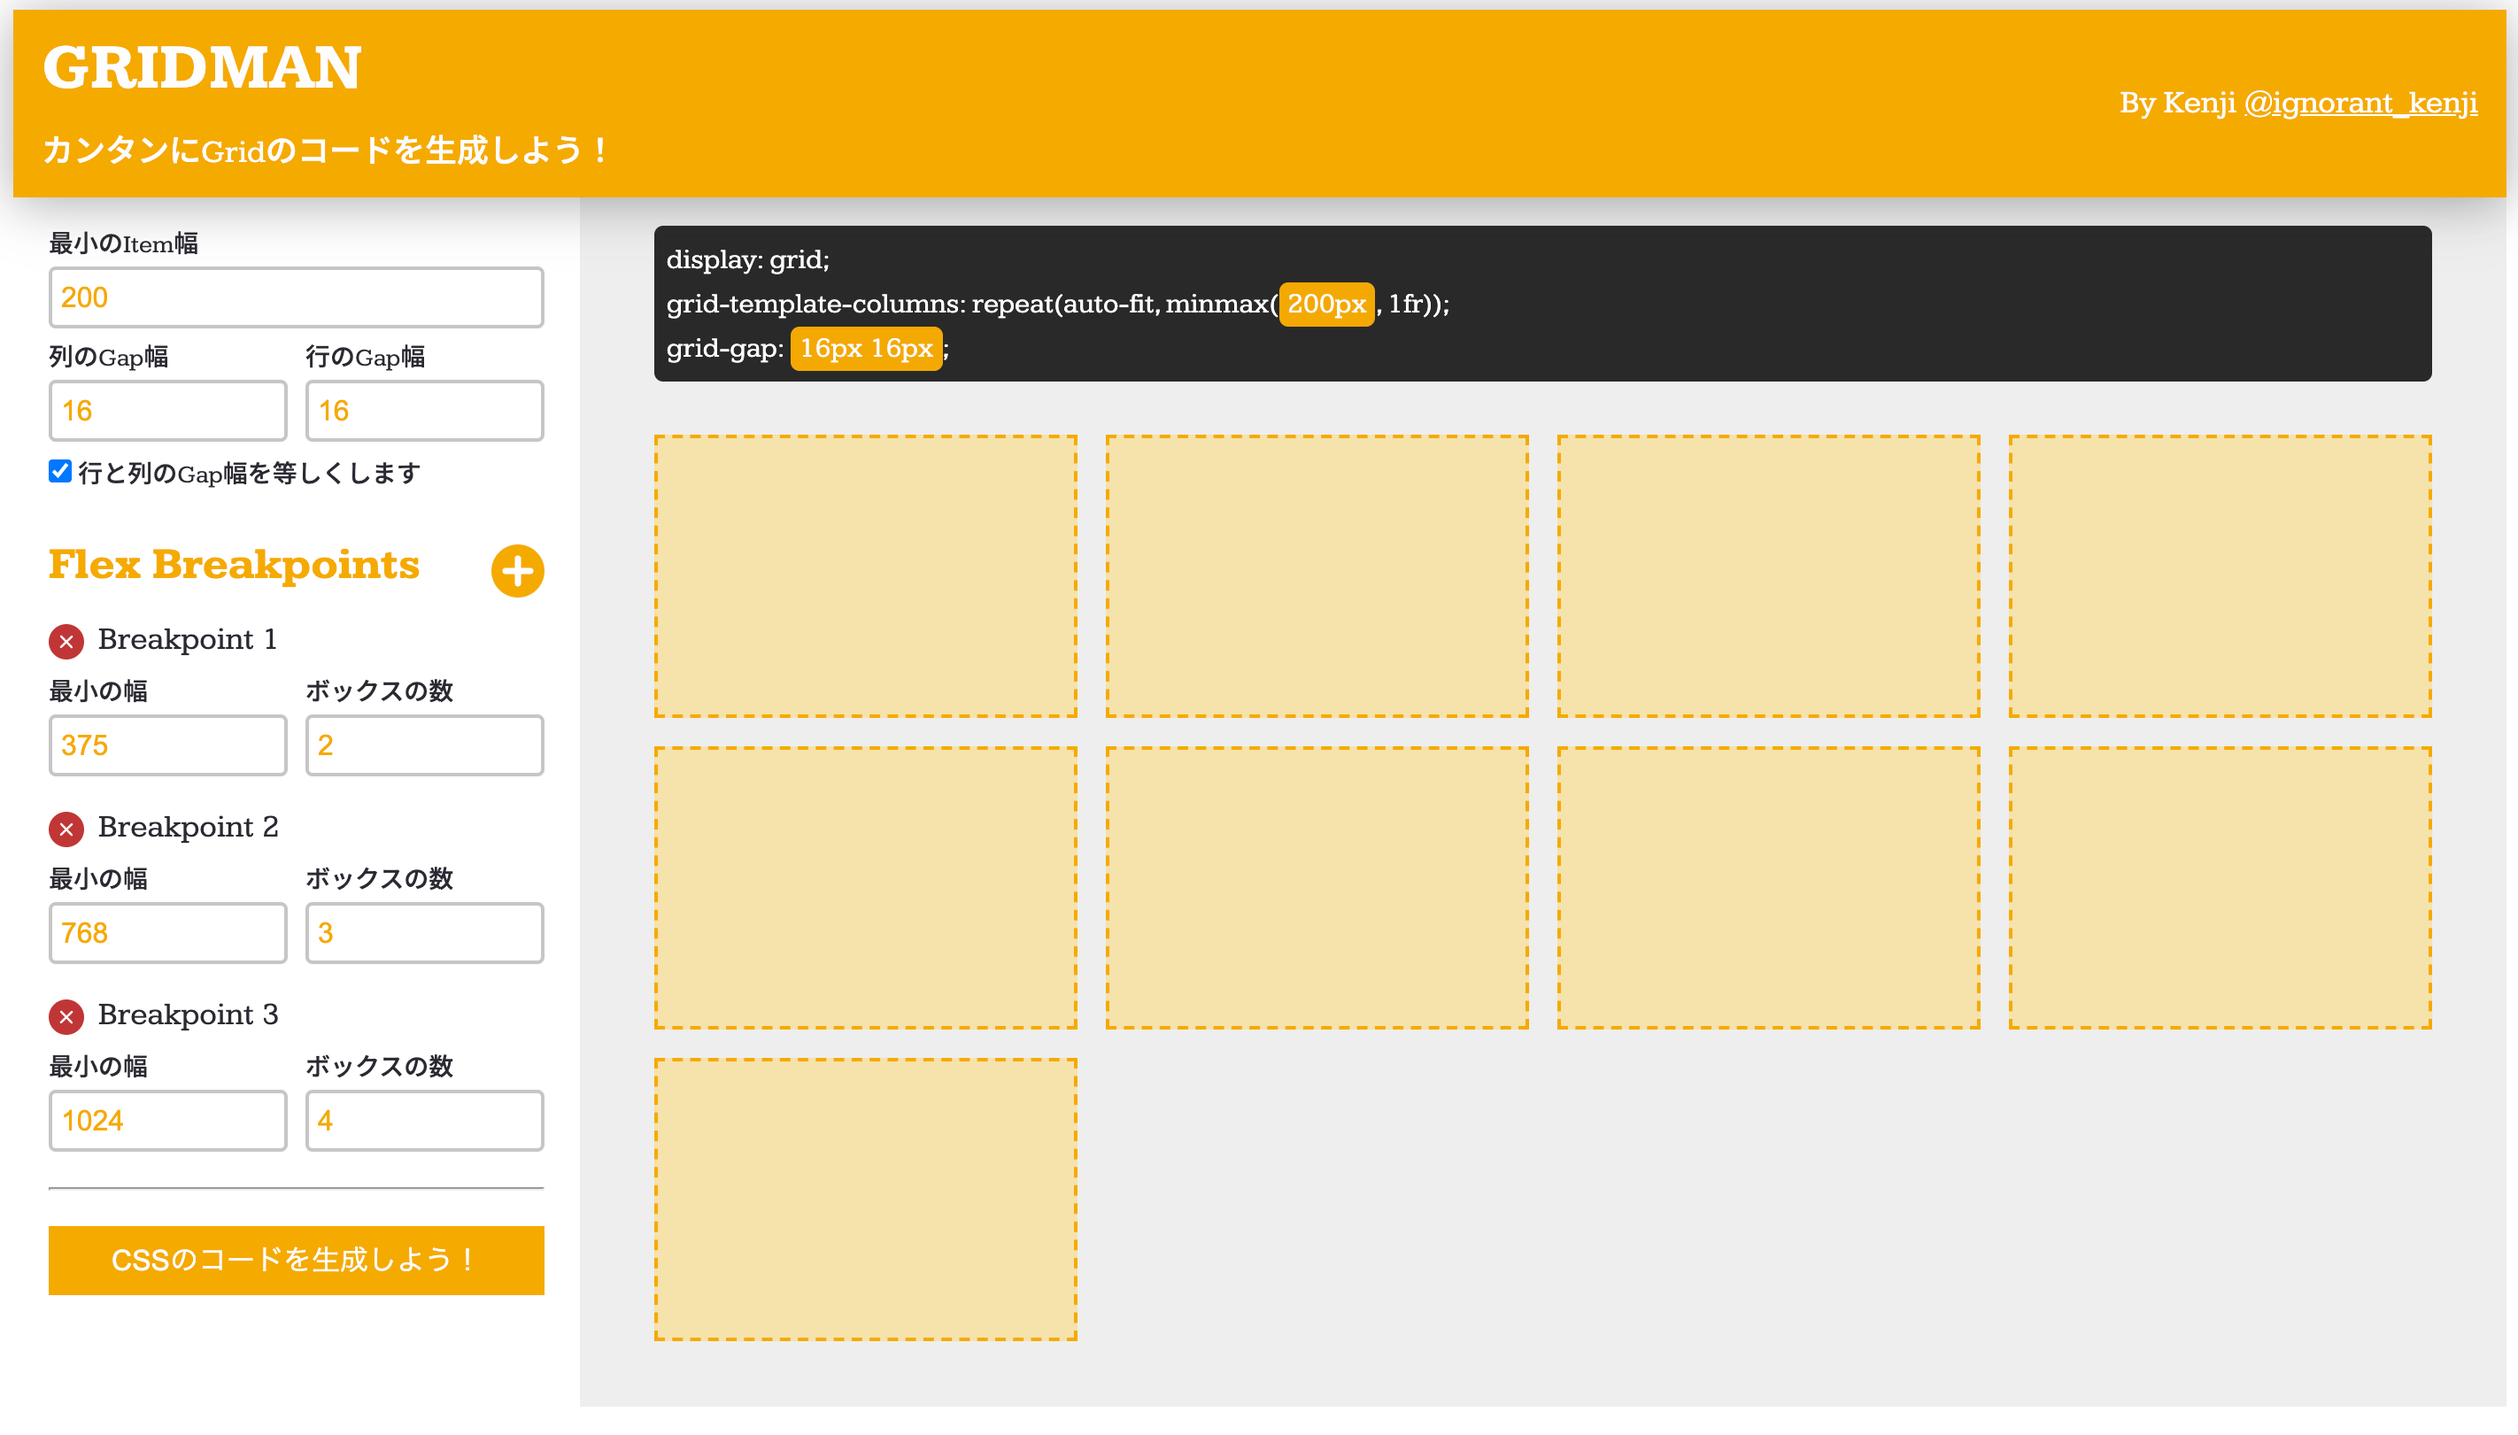
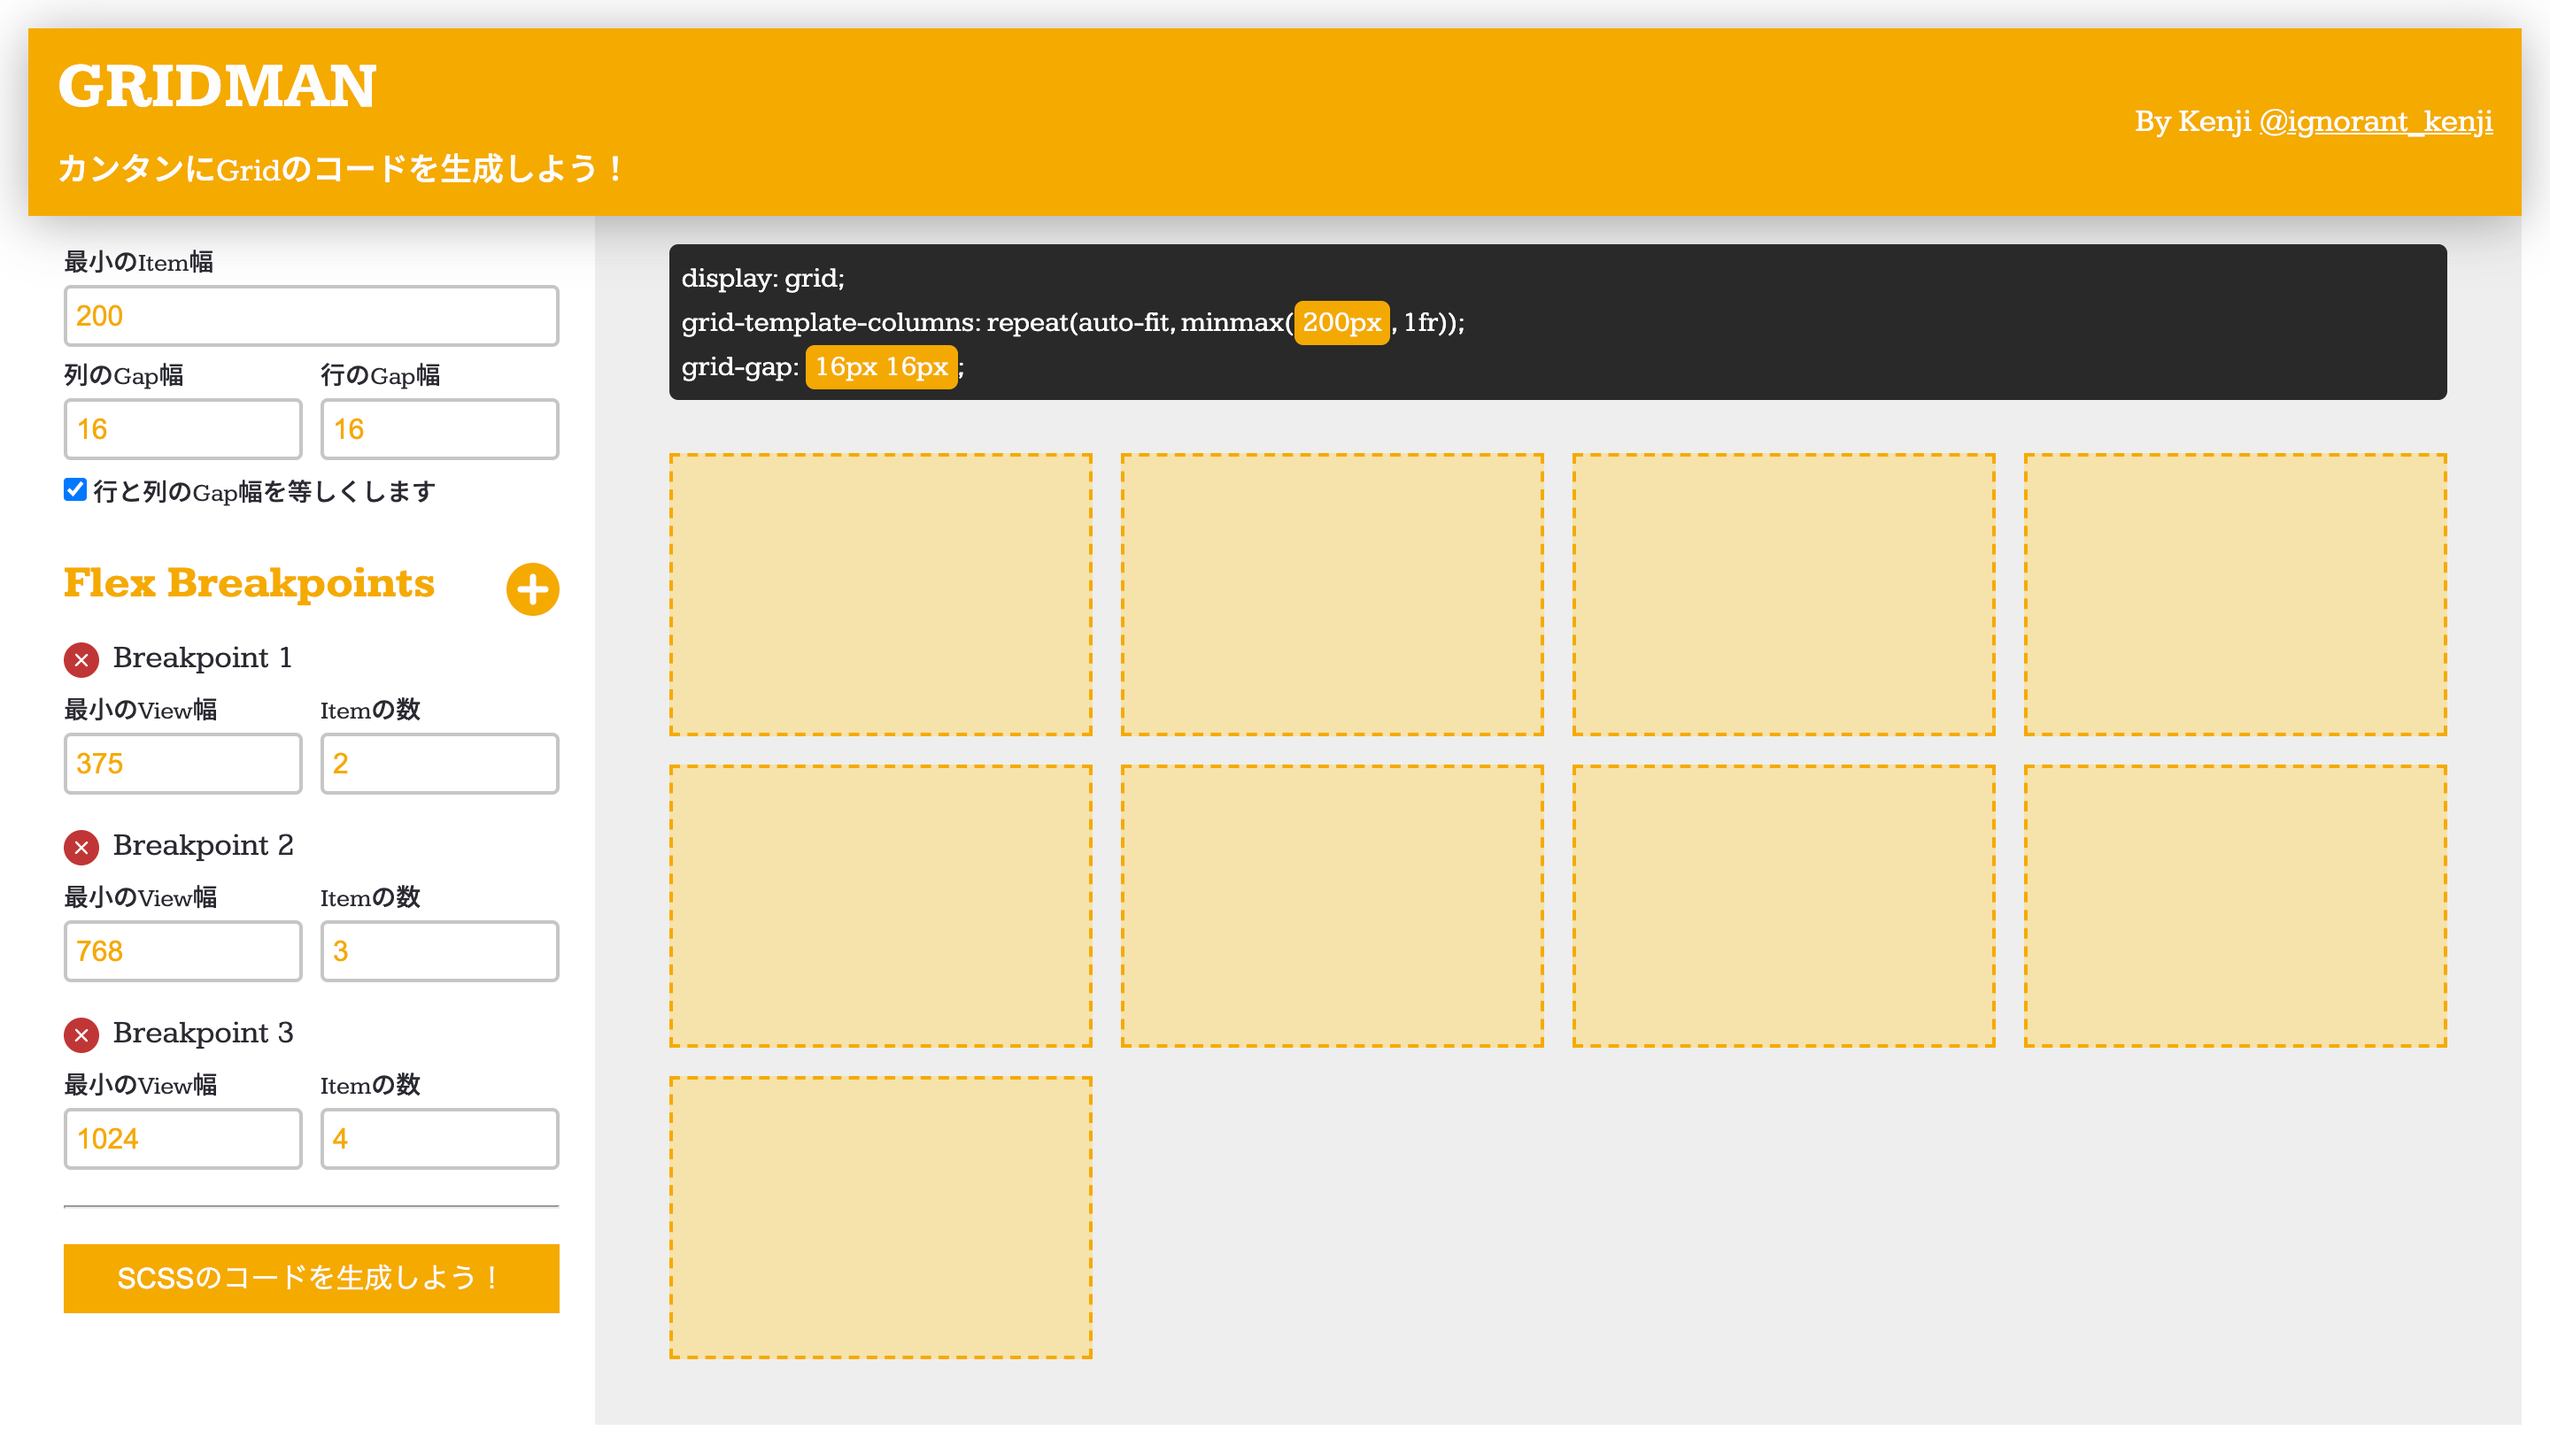
:art: Updated UI Design to modify some texts

Changed region(s): [[0.0, 0.0, 1.0, 0.9254], [0.0, 0.8637, 0.1857, 0.8945]]

diff --git a/js/main2.js b/js/main2.js
@@ -131,7 +131,7 @@ class Main {
     let firstInputLabel = document.createElement('label');
     firstInputLabel.classList.add('label');
     firstInputLabel.setAttribute('for', `fromWidth-${listLength+1}`);
-    firstInputLabel.innerHTML = "最小の幅";
+    firstInputLabel.innerHTML = "最小のView幅";
 
     let firstInput = document.createElement('input');
     firstInput.classList.add('input');
@@ -145,7 +145,7 @@ class Main {
     let secondInputLabel = document.createElement('label');
     secondInputLabel.classList.add('label');
     secondInputLabel.setAttribute('for', `itemsToShow-${listLength+1}`);
-    secondInputLabel.innerHTML = "ボックスの数";
+    secondInputLabel.innerHTML = "Itemの数";
 
     let secondInput = document.createElement('input');
     secondInput.classList.add('input');
